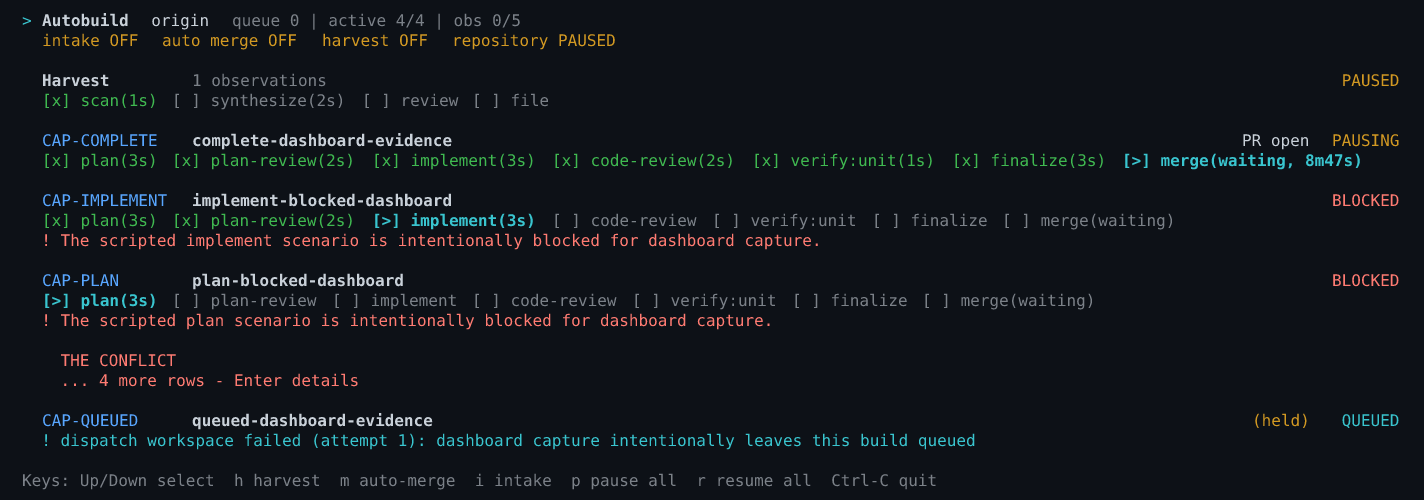
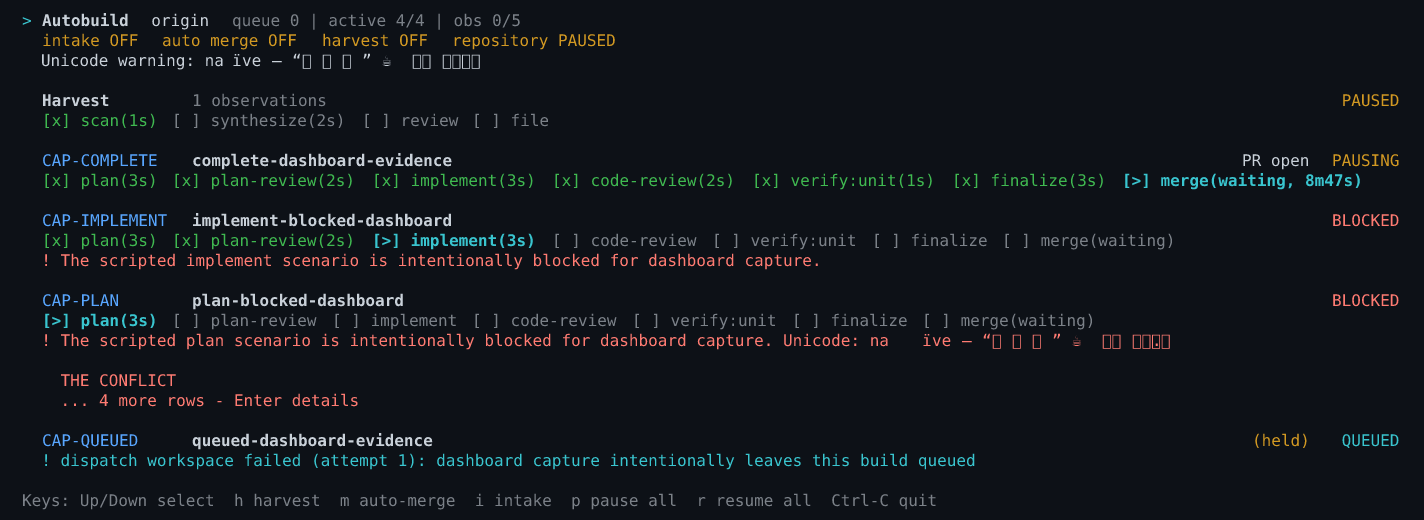
Capture Unicode dashboard evidence

diff --git a/tools/dashboard-capture.ts b/tools/dashboard-capture.ts
@@ -3,6 +3,7 @@ import { join, relative, resolve, sep } from 'node:path'
 import { abDispatch } from '../src/cli/dispatch'
 import { bulkControlRepository } from '../src/cli/bulk-control'
 import { renderDashboardFrameImage } from '../src/cli/dashboard/frame-image'
+import { cellWidth } from '../src/cli/dashboard/cells'
 import { renderDashboard, stripAnsi } from '../src/cli/dashboard/render'
 import type { TerminalInput, TerminalOut } from '../src/cli/terminal'
 import { createTerminalModeController } from '../src/cli/terminal-restore'
@@ -30,13 +31,16 @@ interface FrameSpec {
   resume?: { slug: string; value: string; cursor: number }
   /** Overlay the existing build-detail kind at a scripted scroll offset. */
   detail?: { slug: string; scroll: number }
+  /** Overlay a transcript presentation containing fixed Unicode evidence. */
+  transcript?: { slug: string; sessionId: string }
   /** Frame-specific evidence this capture exists to show. */
   requires?: readonly string[]
 }
 
-const RESUME_GUIDANCE = 'Use the manual merge path.\nRe-run verify:test afterwards.'
+const UNICODE_EVIDENCE = 'naïve — “日本語” ☕ 🇺🇸 👨👩👧👦'
+const RESUME_GUIDANCE = `Use the manual merge path.\nRe-run verify:test afterwards — ${UNICODE_EVIDENCE}.`
 const SCRIPTED_BLOCKER = [
-  'The scripted plan scenario is intentionally blocked for dashboard capture.',
+  `The scripted plan scenario is intentionally blocked for dashboard capture. Unicode: ${UNICODE_EVIDENCE}.`,
   '',
   'THE CONFLICT',
   'The preview must preserve this paragraph structure.',
@@ -61,6 +65,13 @@ const FRAME_SPECS: readonly FrameSpec[] = [
     requires: [...HELD_EVIDENCE, 'more rows - Enter details'],
   },
   {
+    id: 'unicode-transcript',
+    columns: 100,
+    rows: 20,
+    transcript: { slug: 'complete-dashboard-evidence', sessionId: 's_unicode_capture' },
+    requires: ['Transcript  complete-dashboard-evidence', `Agent: ${UNICODE_EVIDENCE}`],
+  },
+  {
     id: 'resume-prompt',
     columns: 100,
     rows: 30,
@@ -77,6 +88,7 @@ const FRAME_SPECS: readonly FrameSpec[] = [
       'Enter submit',
       'The scripted plan scenario is intentionally blocked for dashboard capture.',
       'EXPANDED FINAL LINE: dashboard message preview complete.',
+      UNICODE_EVIDENCE,
     ],
   },
 ]
@@ -300,17 +312,20 @@ function validateCapturedFrame(spec: FrameSpec, lines: string[] | undefined): st
   }
   const plain = lines.map(stripAnsi)
   for (const [index, line] of plain.entries()) {
-    if (line.length > columns) {
+    const cells = cellWidth(line)
+    if (cells > columns) {
       throw new Error(
-        `dashboard capture ${id}: line ${index + 1} is ${line.length} cells, wider than ${columns}`,
+        `dashboard capture ${id}: line ${index + 1} is ${cells} cells, wider than ${columns}`,
       )
     }
   }
   const text = plain.join('\n')
   const commonEvidence =
-    spec.detail === undefined
-      ? ['CAP-PLAN', 'CAP-IMPLEMENT', 'CAP-COMPLETE', 'BLOCKED', 'Harvest', 'PAUSED']
-      : ['Build  plan-blocked-dashboard', 'BLOCKED']
+    spec.transcript !== undefined
+      ? ['Transcript', 'complete-dashboard-evidence']
+      : spec.detail === undefined
+        ? ['CAP-PLAN', 'CAP-IMPLEMENT', 'CAP-COMPLETE', 'BLOCKED', 'Harvest', 'PAUSED']
+        : ['Build  plan-blocked-dashboard', 'BLOCKED']
   for (const required of commonEvidence) {
     if (!text.includes(required)) {
       throw new Error(
@@ -349,12 +364,29 @@ async function capturePaint(harness: E2eHarness, spec: FrameSpec): Promise<strin
     resolveDashboardRenderer: () => (model, options) => {
       const presented = {
         ...model,
+        ...(spec.detail === undefined && spec.transcript === undefined
+          ? { warningLines: [`Unicode warning: ${UNICODE_EVIDENCE}`] }
+          : {}),
         ...(spec.detail !== undefined
           ? {
               view: {
                 kind: 'detail' as const,
                 slug: spec.detail.slug,
                 scroll: spec.detail.scroll,
+              },
+            }
+          : {}),
+        ...(spec.transcript !== undefined
+          ? {
+              view: {
+                kind: 'transcript' as const,
+                slug: spec.transcript.slug,
+                sessionId: spec.transcript.sessionId,
+                scroll: 0,
+                transcript: {
+                  kind: 'turns' as const,
+                  turns: [{ prompt: `Review ${UNICODE_EVIDENCE}`, text: UNICODE_EVIDENCE }],
+                },
               },
             }
           : {}),
@@ -440,6 +472,8 @@ export async function captureDashboardFrames(
         '- [ ] Both mixed frames show repository PAUSED and CAP-QUEUED as (held) while retaining QUEUED.',
         '- [ ] The narrow frame truncates deliberately without clipping.',
         '- [ ] Colour emphasis is present and literal statuses remain readable.',
+        '- [ ] Unicode samples in the warning, blocker, composer, and transcript are readable, unsplit,',
+        '      non-overlapping, and are not code-point escapes.',
         '- [ ] The resume-prompt frame shows the composer panel in place of the',
         '      key legend over the existing scrolled detail view: build name,',
         '      complete blocker through its unique final line, optional-guidance',

diff --git a/tools/dashboard-capture.test.ts b/tools/dashboard-capture.test.ts
@@ -61,6 +61,7 @@ test('scripted dispatch capture is deterministic, mixed-state, paired, and sourc
   expect(first.result.frames.map((frame) => frame.id)).toEqual([
     'mixed-wide',
     'mixed-narrow',
+    'unicode-transcript',
     'resume-prompt',
   ])
   const report = await readFile(first.result.reportPath, 'utf8')
@@ -71,6 +72,7 @@ test('scripted dispatch capture is deterministic, mixed-state, paired, and sourc
   expect(report).toContain(
     '- [ ] Both mixed frames show repository PAUSED and CAP-QUEUED as (held) while retaining QUEUED.',
   )
+  expect(report).toContain('unicode-transcript.png')
   expect(report).toContain('resume-prompt.png')
   expect(report).toContain('- [ ] The resume-prompt frame shows the composer panel in place of the')
   expect(report).toContain('complete blocker through its unique final line')
@@ -86,10 +88,14 @@ test('scripted dispatch capture is deterministic, mixed-state, paired, and sourc
       expect(frame.text).toContain('CAP-COMPLETE')
       expect(frame.text).toContain('Harvest')
       expect(frame.text).toContain('PAUSED')
-    } else {
+    } else if (frame.id === 'resume-prompt') {
       expect(frame.text).toContain('Build  plan-blocked-dashboard')
+      expect(frame.text).toContain('BLOCKED')
+    } else {
+      expect(frame.text).toContain('Transcript  complete-dashboard-evidence')
+      expect(frame.text).toContain('Agent: naïve — “日本語” ☕ 🇺🇸 👨👩👧👦')
     }
-    expect(frame.text).toContain('BLOCKED')
+    if (frame.id !== 'unicode-transcript') expect(frame.text).toContain('BLOCKED')
     expect(frame.text).not.toContain('\x1b')
   }
   for (const id of ['mixed-wide', 'mixed-narrow']) {
@@ -99,6 +105,11 @@ test('scripted dispatch capture is deterministic, mixed-state, paired, and sourc
     expect(mixed).toMatch(/CAP-QUEUED.*\(held\)\s+QUEUED/)
   }
   expect(first.result.frames.find((frame) => frame.id === 'mixed-narrow')!.text).toContain('~')
+  for (const id of ['mixed-wide', 'mixed-narrow']) {
+    expect(first.result.frames.find((frame) => frame.id === id)!.text).toContain(
+      'Unicode warning: naïve — “日本語” ☕ 🇺🇸 👨👩👧👦',
+    )
+  }
   for (const id of ['mixed-wide', 'mixed-narrow']) {
     expect(first.result.frames.find((frame) => frame.id === id)!.text).toContain(
       'more rows - Enter details',
@@ -116,7 +127,8 @@ test('scripted dispatch capture is deterministic, mixed-state, paired, and sourc
   expect(resume).toContain('EXPANDED FINAL LINE: dashboard message preview complete.')
   expect(resume).not.toContain('more rows - Enter details')
   expect(resume).toContain('Use the manual merge path.')
-  expect(resume).toContain('Re-run verify:test |afterwards.')
+  expect(resume).toContain('Re-run verify:test |afterwards — naïve — “日本語” ☕ 🇺🇸 👨👩👧👦.')
+  expect(resume).not.toMatch(/\\u\{(?:e[fE]9|2014|1f1fa|1f468)\}/)
   expect(resume).toContain('Enter submit')
   expect(resume).toContain('newline')
   expect(resume).toContain('Esc cancel')

diff --git a/.agents/skills/ab-verify-dashboard/SKILL.md b/.agents/skills/ab-verify-dashboard/SKILL.md
@@ -30,8 +30,10 @@ the diff and not to decide applicability again.
    `repository PAUSED` and the `CAP-QUEUED` row as yellow `(held)` while keeping
    its literal `QUEUED` status; the narrow frame truncates/wraps those additions
    deliberately without clipping; colour emphasis is present while literal
-   status remains readable; and the resume-prompt frame shows the blocked-build
-   composer panel in place of the key legend — build name, optional-guidance
+   status remains readable; Unicode samples (accented text, curly punctuation,
+   em dash, CJK, variation-selector emoji, flag, and ZWJ family) are readable,
+   unsplit, non-overlapping, and not rendered as code-point escapes; and the
+   resume-prompt frame shows the blocked-build composer panel in place of the key legend — build name, optional-guidance
    note, blocker question, a two-line field with a visible caret, and its key
    bindings. On a guidance-assisted retry, also record how the answered
    escalation affected the capture, interpretation of the evidence, or verdict.
@@ -43,6 +45,8 @@ the diff and not to decide applicability again.
    ab artifact put dashboard-frame:mixed-wide:png .ab/dashboard-frames/mixed-wide.png --attach
    ab artifact put dashboard-frame:mixed-narrow:text .ab/dashboard-frames/mixed-narrow.txt --attach
    ab artifact put dashboard-frame:mixed-narrow:png .ab/dashboard-frames/mixed-narrow.png --attach
+   ab artifact put dashboard-frame:unicode-transcript:text .ab/dashboard-frames/unicode-transcript.txt --attach
+   ab artifact put dashboard-frame:unicode-transcript:png .ab/dashboard-frames/unicode-transcript.png --attach
    ab artifact put dashboard-frame:resume-prompt:text .ab/dashboard-frames/resume-prompt.txt --attach
    ab artifact put dashboard-frame:resume-prompt:png .ab/dashboard-frames/resume-prompt.png --attach
    ab verdict pass --notes .ab/dashboard-frames/verify-report.md
